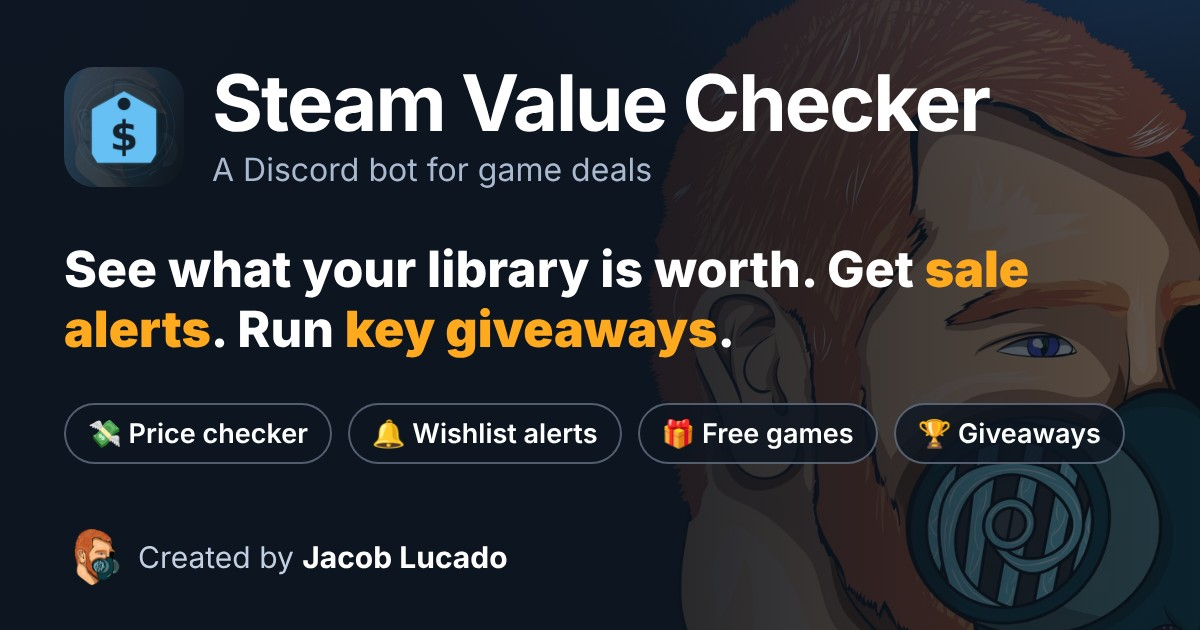
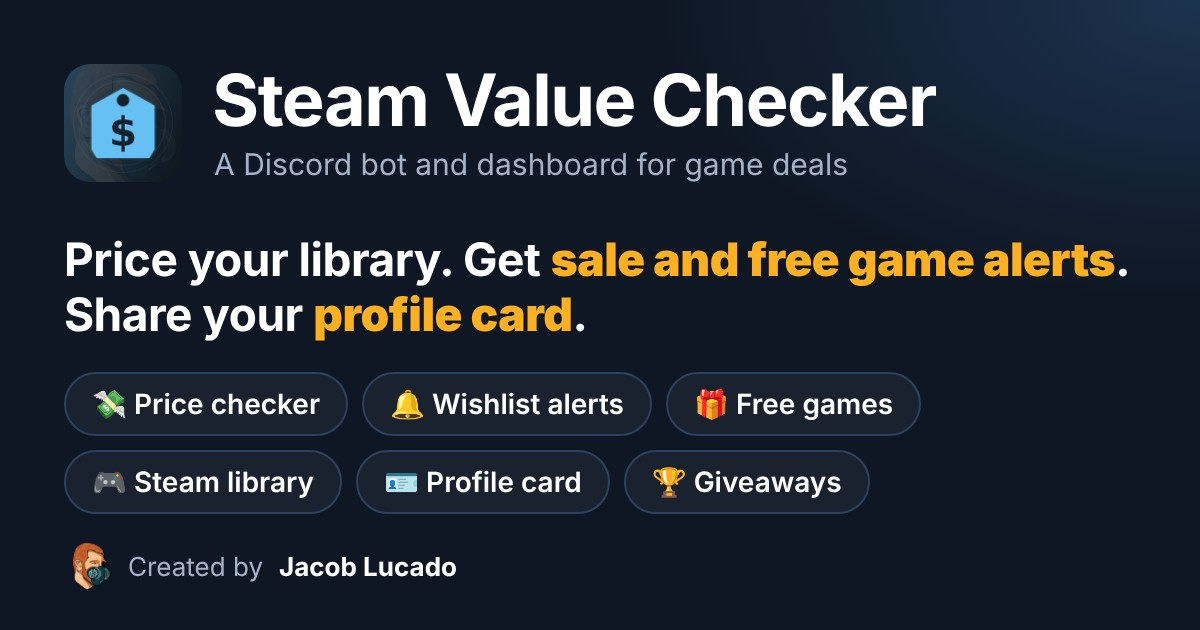
Dashboard SEO: title, descriptions, structured data and preview image now cover value, alerts, profile card and giveaways
Claude-Session: https://claude.ai/code/session_01Uxyj5kxpqSJP7J7uRiwZFx

diff --git a/public/index.html b/public/index.html
@@ -3,27 +3,27 @@
 <head>
 <meta charset="utf-8">
 <meta name="viewport" content="width=device-width, initial-scale=1">
-<title>Steam Value Checker: game library pricing, sale alerts and key giveaways</title>
-<meta name="description" content="A Discord bot and web dashboard that prices your game library, alerts you to wishlist sales and free games, and runs key giveaways for your server.">
+<title>Steam Value Checker: game library value, sale and free game alerts, profile card</title>
+<meta name="description" content="A Discord bot and web dashboard that prices your Steam library, sends wishlist sale and free game alerts, shows hours played and account value, makes a shareable profile card, and runs key giveaways.">
 <link rel="canonical" href="__ORIGIN__/">
 <meta name="robots" content="index,follow">
 <meta property="og:type" content="website">
 <meta property="og:site_name" content="Steam Value Checker">
-<meta property="og:title" content="Steam Value Checker: game library pricing, sale alerts and key giveaways">
-<meta property="og:description" content="See what your game library is worth, get wishlist sale and free game alerts, and run key giveaways in your Discord server.">
+<meta property="og:title" content="Steam Value Checker: game library value, sale and free game alerts, profile card">
+<meta property="og:description" content="Price your game library, get wishlist sale and free game alerts, see your Steam account value, share a profile card, and run key giveaways in Discord.">
 <meta property="og:url" content="__ORIGIN__/">
-<meta property="og:image" content="__ORIGIN__/preview.jpg">
+<meta property="og:image" content="__ORIGIN__/preview.jpg?v=2">
 <meta property="og:image:type" content="image/jpeg">
 <meta property="og:image:width" content="1200">
 <meta property="og:image:height" content="630">
-<meta property="og:image:alt" content="Steam Value Checker: a Discord bot for game deals, created by Jacob Lucado">
+<meta property="og:image:alt" content="Steam Value Checker: price your library, sale and free game alerts, profile card, giveaways">
 <meta name="twitter:card" content="summary_large_image">
 <meta name="twitter:creator" content="@twit_user69">
 <meta name="twitter:title" content="Steam Value Checker">
-<meta name="twitter:description" content="See what your game library is worth, get wishlist sale and free game alerts, and run key giveaways in your Discord server.">
-<meta name="twitter:image" content="__ORIGIN__/preview.jpg">
+<meta name="twitter:description" content="Price your game library, get wishlist sale and free game alerts, see your Steam account value, share a profile card, and run key giveaways in Discord.">
+<meta name="twitter:image" content="__ORIGIN__/preview.jpg?v=2">
 <meta name="twitter:image:alt" content="Steam Value Checker: a Discord bot for game deals">
-<script type="application/ld+json">{"@context":"https://schema.org","@type":"SoftwareApplication","name":"Steam Value Checker","applicationCategory":"UtilitiesApplication","operatingSystem":"Discord","description":"A Discord bot and web dashboard that prices game libraries, sends wishlist sale and free game alerts, and runs key giveaways.","image":"__ORIGIN__/preview.jpg","url":"__ORIGIN__/","author":{"@type":"Person","name":"Jacob Lucado","url":"https://x.com/twit_user69"},"offers":{"@type":"Offer","price":"0","priceCurrency":"USD"}}</script>
+<script type="application/ld+json">{"@context":"https://schema.org","@type":"SoftwareApplication","name":"Steam Value Checker","applicationCategory":"UtilitiesApplication","operatingSystem":"Discord","description":"A Discord bot and web dashboard that prices your Steam library, sends wishlist sale and free game alerts, shows hours played and account value, makes a shareable profile card, and runs key giveaways.","featureList":["Game library and Steam account value","Wishlist sale and free game alerts","Hours played and what to play next","Shareable profile card","Key giveaways for Discord servers","Price history and buy-or-wait advice"],"image":"__ORIGIN__/preview.jpg?v=2","url":"__ORIGIN__/","author":{"@type":"Person","name":"Jacob Lucado","url":"https://x.com/twit_user69"},"offers":{"@type":"Offer","price":"0","priceCurrency":"USD"}}</script>
 <meta name="theme-color" content="#0f1724">
 <link rel="icon" type="image/png" href="/favicon.png">
 <link rel="apple-touch-icon" href="/logo.png">

diff --git a/test/dashboard.test.js b/test/dashboard.test.js
@@ -580,7 +580,7 @@ test("the page has share-preview tags with the real address, plus robots and sit
     const t = await setup();
     const page = await t.request("/", { raw: true });
     const html = await page.text();
-    assert.ok(html.includes(`<meta property="og:image" content="${ORIGIN}/preview.jpg">`));
+    assert.ok(html.includes(`<meta property="og:image" content="${ORIGIN}/preview.jpg?v=2">`));
     assert.ok(html.includes('name="twitter:card" content="summary_large_image"'));
     assert.ok(!html.includes("__ORIGIN__"));
     const img = await t.request("/preview.jpg", { raw: true });
